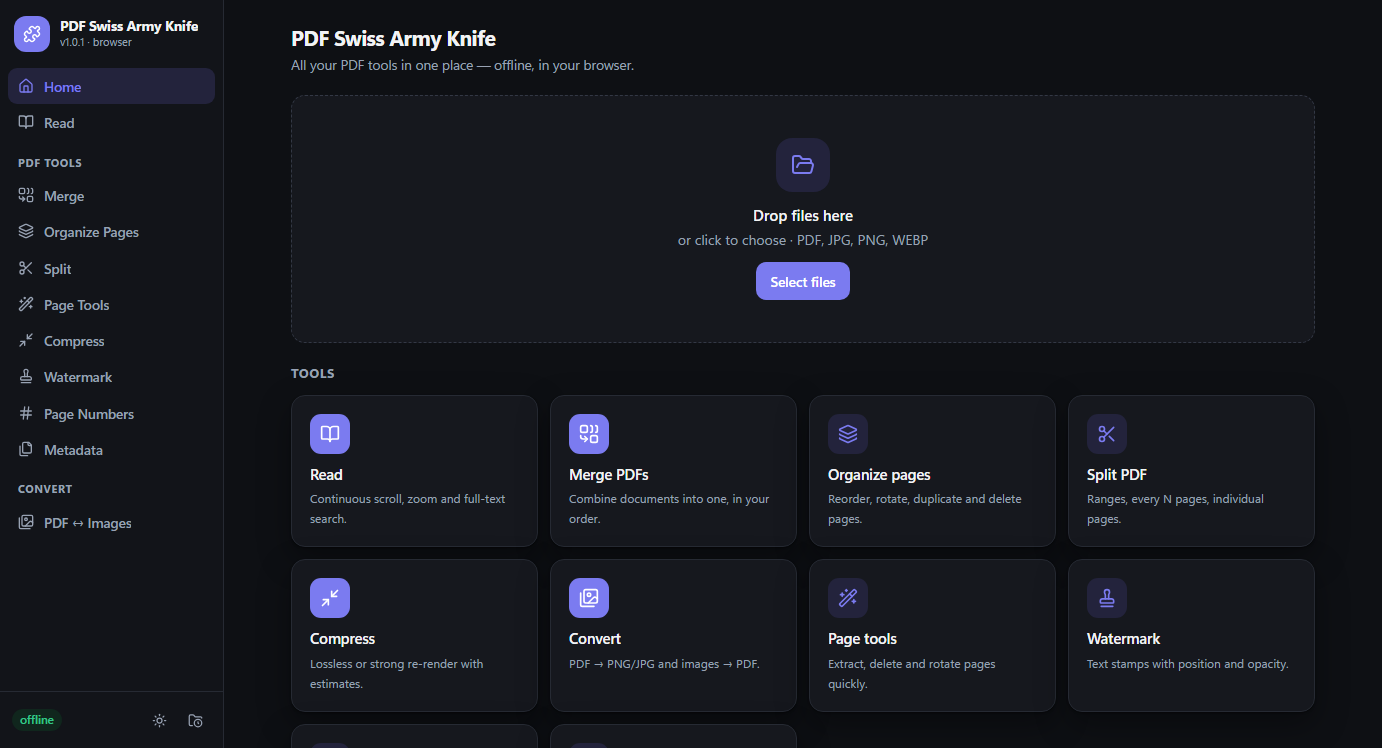
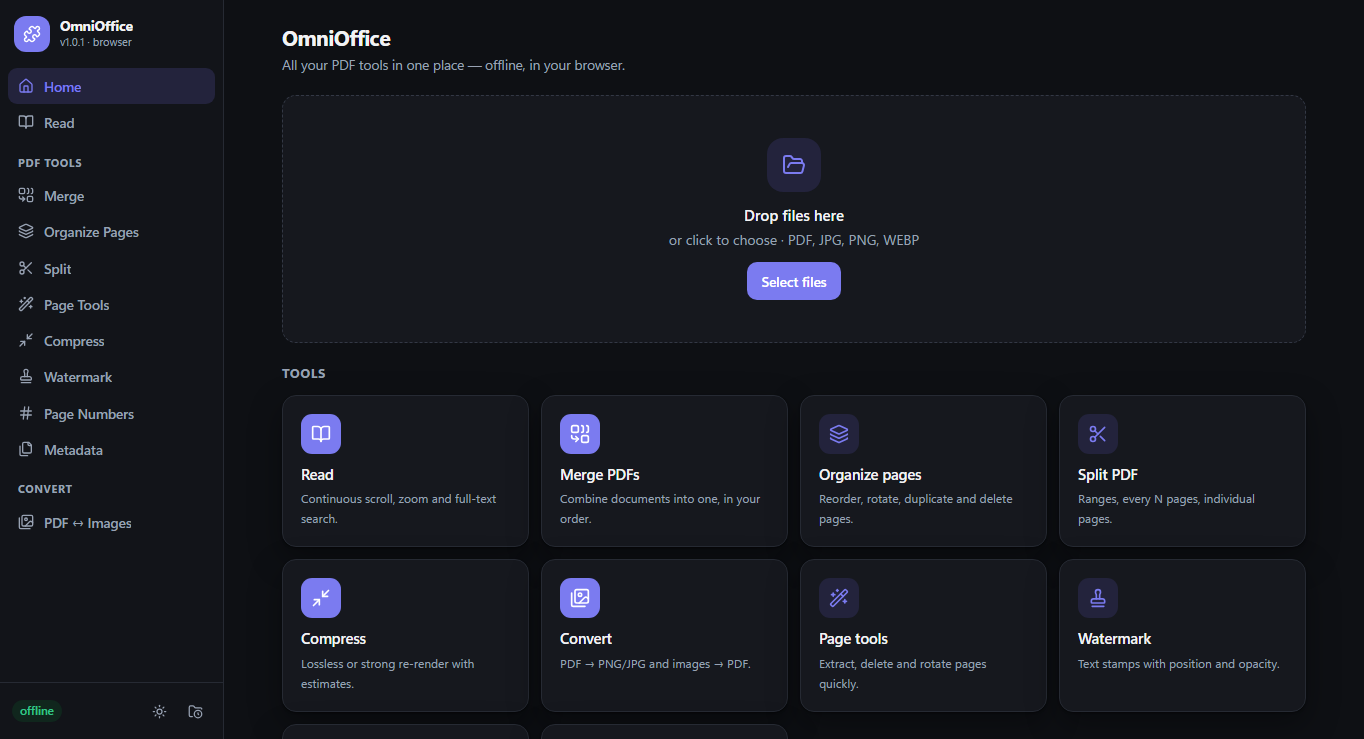
build(extension): pdfjs-dist 6 + extension group updates (#129)

diff --git a/chrome-extension/src/lib/render.ts b/chrome-extension/src/lib/render.ts
@@ -3,6 +3,7 @@
 // (the worker and the optional wasm module are bundled with the extension).
 
 import * as pdfjs from "pdfjs-dist";
+import type { PDFDocumentProxy } from "pdfjs-dist";
 import workerUrl from "pdfjs-dist/build/pdf.worker.min.mjs?url";
 import { fileStem } from "./format";
 import { PdfOpError } from "./pdf";
@@ -25,31 +26,43 @@ export interface RenderedPage {
   heightPt: number;
 }
 
-export async function openDocument(bytes: Uint8Array) {
+/**
+ * Runs `work` with an open document and tears the loading task down afterwards.
+ *
+ * pdf.js 6 removed `PDFDocumentProxy.destroy`; the loading task owns teardown,
+ * so every call site goes through here instead of destroying the proxy.
+ */
+export async function withDocument<T>(bytes: Uint8Array, work: (doc: PDFDocumentProxy) => Promise<T>): Promise<T> {
   // pdf.js takes ownership of the buffer, so hand it a copy.
   const data = bytes.slice();
   const base = assetBase();
+  const task = pdfjs.getDocument({
+    data,
+    useSystemFonts: true,
+    cMapUrl: `${base}vendor/cmaps/`,
+    cMapPacked: true,
+    standardFontDataUrl: `${base}vendor/standard_fonts/`,
+  });
+  let doc: PDFDocumentProxy;
   try {
-    return await pdfjs.getDocument({
-      data,
-      isEvalSupported: false,
-      useSystemFonts: true,
-      cMapUrl: `${base}vendor/cmaps/`,
-      cMapPacked: true,
-      standardFontDataUrl: `${base}vendor/standard_fonts/`,
-    }).promise;
+    doc = await task.promise;
   } catch (error) {
+    await task.destroy().catch(() => undefined);
     const name = (error as { name?: string })?.name;
     if (name === "PasswordException") {
       throw new PdfOpError("password_required", "This PDF is password protected.");
     }
     throw new PdfOpError("invalid_pdf", "This file could not be read as a PDF. It may be damaged.");
   }
+  try {
+    return await work(doc);
+  } finally {
+    await task.destroy().catch(() => undefined);
+  }
 }
 
 export async function renderPage(bytes: Uint8Array, pageNumber: number, dpi: number): Promise<RenderedPage> {
-  const doc = await openDocument(bytes);
-  try {
+  return withDocument(bytes, async (doc) => {
     const page = await doc.getPage(pageNumber);
     const base = page.getViewport({ scale: 1 });
     const scale = dpi / 72;
@@ -61,7 +74,8 @@ export async function renderPage(bytes: Uint8Array, pageNumber: number, dpi: num
     if (!context) throw new PdfOpError("internal", "Canvas 2D is not available in this browser.");
     context.fillStyle = "#ffffff";
     context.fillRect(0, 0, canvas.width, canvas.height);
-    await page.render({ canvasContext: context, viewport }).promise;
+    // pdf.js 6 requires the canvas itself alongside the context.
+    await page.render({ canvas, canvasContext: context, viewport }).promise;
     return {
       canvas,
       width: canvas.width,
@@ -69,9 +83,7 @@ export async function renderPage(bytes: Uint8Array, pageNumber: number, dpi: num
       widthPt: base.width,
       heightPt: base.height,
     };
-  } finally {
-    await doc.destroy();
-  }
+  });
 }
 
 function canvasToBytes(canvas: HTMLCanvasElement, type: string, quality: number): Promise<Uint8Array> {
@@ -115,8 +127,7 @@ export interface PageText {
 }
 
 export async function extractPageText(bytes: Uint8Array, pageNumber: number): Promise<string> {
-  const doc = await openDocument(bytes);
-  try {
+  return withDocument(bytes, async (doc) => {
     const page = await doc.getPage(pageNumber);
     const content = await page.getTextContent();
     return content.items
@@ -124,14 +135,11 @@ export async function extractPageText(bytes: Uint8Array, pageNumber: number): Pr
       .join(" ")
       .replace(/\s+/g, " ")
       .trim();
-  } finally {
-    await doc.destroy();
-  }
+  });
 }
 
 export async function documentHasText(bytes: Uint8Array, samplePages = 4): Promise<boolean> {
-  const doc = await openDocument(bytes);
-  try {
+  return withDocument(bytes, async (doc) => {
     const total = doc.numPages;
     const step = Math.max(1, Math.floor(total / samplePages));
     for (let pageNumber = 1; pageNumber <= total; pageNumber += step) {
@@ -141,9 +149,7 @@ export async function documentHasText(bytes: Uint8Array, samplePages = 4): Promi
       if (text.trim().length > 3) return true;
     }
     return false;
-  } finally {
-    await doc.destroy();
-  }
+  });
 }
 
 export interface PdfSearchMatch {
@@ -169,12 +175,11 @@ export async function searchDocument(
 ): Promise<PdfSearchResult> {
   const needle = query.trim().toLowerCase();
   if (!needle) throw new PdfOpError("invalid_input", "Enter the text to search for.");
-  const doc = await openDocument(bytes);
-  const matches: PdfSearchMatch[] = [];
-  let pagesWithMatches = 0;
-  let hasTextLayer = false;
-  let truncated = false;
-  try {
+  return withDocument(bytes, async (doc) => {
+    const matches: PdfSearchMatch[] = [];
+    let pagesWithMatches = 0;
+    let hasTextLayer = false;
+    let truncated = false;
     for (let pageNumber = 1; pageNumber <= doc.numPages; pageNumber += 1) {
       if (cancelled?.()) throw new PdfOpError("cancelled", "Search cancelled.");
       onProgress?.(pageNumber, doc.numPages);
@@ -208,10 +213,8 @@ export async function searchDocument(
       if (pageMatches > 0) pagesWithMatches += 1;
       if (truncated) break;
     }
-  } finally {
-    await doc.destroy();
-  }
-  return { matches, pagesWithMatches, totalMatches: matches.length, truncated, hasTextLayer };
+    return { matches, pagesWithMatches, totalMatches: matches.length, truncated, hasTextLayer };
+  });
 }
 
 export function suggestImageFileName(pdfName: string, page: number, format: "png" | "jpeg"): string {

diff --git a/chrome-extension/test/polyfills.ts b/chrome-extension/test/polyfills.ts
@@ -1,0 +1,58 @@
+/**
+ * pdf.js 6 uses the ES2025 typed-array helpers (`Uint8Array.prototype.toHex`,
+ * `fromBase64`, ...). Chrome 130+ has them, but the Node test runner may not,
+ * so the same modules would run in the browser and fail here. Shim only what is
+ * missing; a runtime that already has them is untouched.
+ */
+type HexHelpers = {
+  toHex?: () => string;
+  toBase64?: (options?: { alphabet?: "base64" | "base64url" }) => string;
+};
+
+type HexConstructor = {
+  fromHex?: (value: string) => Uint8Array;
+  fromBase64?: (value: string, options?: { alphabet?: "base64" | "base64url" }) => Uint8Array;
+};
+
+function define(target: object, name: string, value: unknown): void {
+  Object.defineProperty(target, name, { value, writable: true, configurable: true });
+}
+
+const helpers = Uint8Array.prototype as HexHelpers;
+const constructor = Uint8Array as unknown as HexConstructor;
+
+if (typeof helpers.toHex !== "function") {
+  define(Uint8Array.prototype, "toHex", function toHex(this: Uint8Array): string {
+    let out = "";
+    for (const byte of this) out += byte.toString(16).padStart(2, "0");
+    return out;
+  });
+}
+
+if (typeof constructor.fromHex !== "function") {
+  define(Uint8Array, "fromHex", function fromHex(value: string): Uint8Array {
+    const clean = String(value).replace(/[^0-9a-fA-F]/g, "");
+    const out = new Uint8Array(Math.floor(clean.length / 2));
+    for (let index = 0; index < out.length; index += 1) {
+      out[index] = Number.parseInt(clean.slice(index * 2, index * 2 + 2), 16);
+    }
+    return out;
+  });
+}
+
+if (typeof helpers.toBase64 !== "function") {
+  define(Uint8Array.prototype, "toBase64", function toBase64(this: Uint8Array): string {
+    let binary = "";
+    for (const byte of this) binary += String.fromCharCode(byte);
+    return btoa(binary);
+  });
+}
+
+if (typeof constructor.fromBase64 !== "function") {
+  define(Uint8Array, "fromBase64", function fromBase64(value: string): Uint8Array {
+    const binary = atob(String(value).replace(/-/g, "+").replace(/_/g, "/"));
+    const out = new Uint8Array(binary.length);
+    for (let index = 0; index < binary.length; index += 1) out[index] = binary.charCodeAt(index);
+    return out;
+  });
+}

diff --git a/chrome-extension/test/ops.test.ts b/chrome-extension/test/ops.test.ts
@@ -10,6 +10,7 @@ import { readFile } from "node:fs/promises";
 import { fileURLToPath } from "node:url";
 import { dirname, join } from "node:path";
 import { PDFDocument, StandardFonts, rgb } from "pdf-lib";
+import "./polyfills";
 import * as pdfjs from "pdfjs-dist";
 
 import {
@@ -48,13 +49,15 @@ async function samplePdf(pages: number, label = "Sample"): Promise<Uint8Array> {
 
 /** Extracts the text of one page using pdf.js (verifies real content). */
 async function pageText(bytes: Uint8Array, pageNumber: number): Promise<string> {
-  const doc = await pdfjs.getDocument({ data: bytes.slice(), isEvalSupported: false }).promise;
+  // pdf.js 6 removed `PDFDocumentProxy.destroy`; the loading task owns teardown.
+  const task = pdfjs.getDocument({ data: bytes.slice() });
+  const doc = await task.promise;
   try {
     const page = await doc.getPage(pageNumber);
     const content = await page.getTextContent();
     return content.items.map((item) => ("str" in item ? item.str : "")).join(" ");
   } finally {
-    await doc.destroy();
+    await task.destroy();
   }
 }
 
